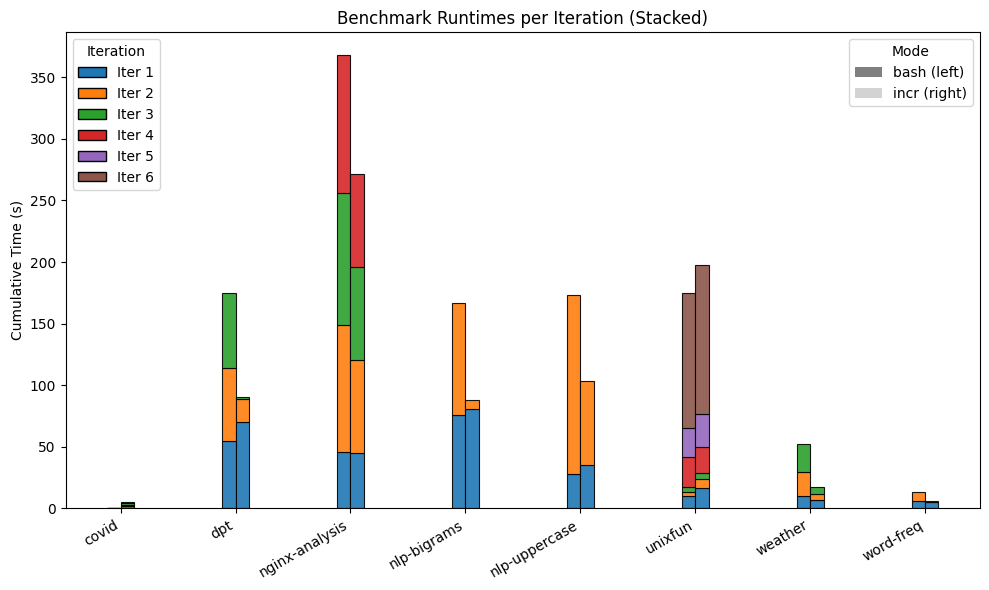
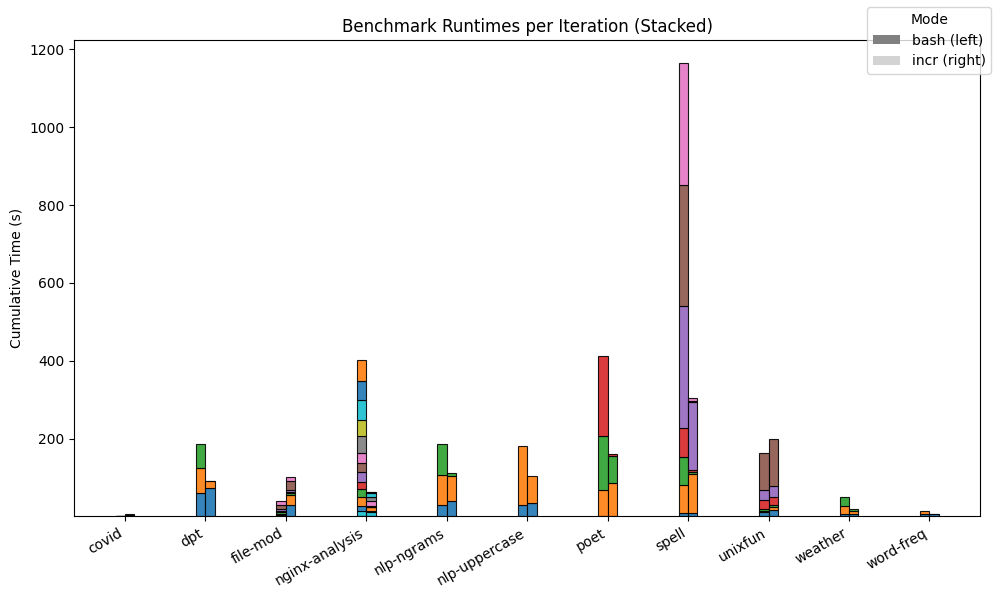
results

Changed region(s): [[0.0, 0.0, 1.0, 0.9763], [0.0303, 0.7017, 0.091, 0.7627]]

diff --git a/evaluation/analysis/plot.py b/evaluation/analysis/plot.py
@@ -7,9 +7,12 @@ from matplotlib.patches import Patch
 BENCHMARKS = [
     "covid",
     "dpt",
+    "file-mod",
     "nginx-analysis",
-    "nlp-bigrams",
+    "nlp-ngrams",
     "nlp-uppercase",
+    "poet",
+    "spell",
     "unixfun",
     "weather",
     "word-freq",
@@ -89,9 +92,9 @@ mode_patches = [
 ]
 
 # Combine legends (iteration colors + mode)
-legend1 = axes.legend(handles=iter_patches, title="Iteration", loc="upper left")
-axes.add_artist(legend1)  # Add iteration legend first
-axes.legend(handles=mode_patches, title="Mode", loc="upper right")
+#legend1 = figure.legend(handles=iter_patches, title="Iteration", loc="upper right")
+#figure.add_artist(legend1)  # Add iteration legend first
+figure.legend(handles=mode_patches, title="Mode", loc="upper right")
 
 figure.tight_layout()
 figure.savefig("plot.png", bbox_inches="tight")

diff --git a/src/config.rs b/src/config.rs
@@ -20,7 +20,7 @@ pub(crate) const COMMIT_DIRECTORY: &str = "commit";
 pub(crate) const CHUNK_SIZE: usize = 65536;
 pub(crate) const COMPRESSION_LEVEL: i32 = 1;
 pub(crate) const SUDO_SANDBOX: bool = true;
-pub(crate) const DEBUG: bool = true;
+pub(crate) const DEBUG: bool = false;
 pub(crate) const DEBUG_LOGS: bool = DEBUG && true;
 pub(crate) const DEBUG_LOG_PATH: &str = "incr/debug_log.txt";
 
